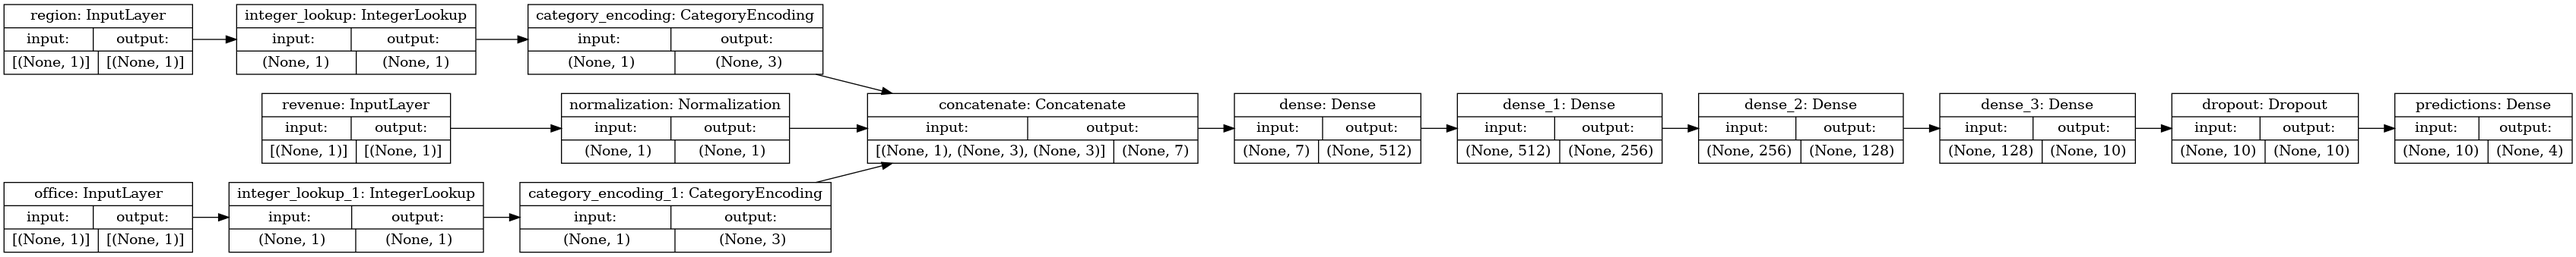
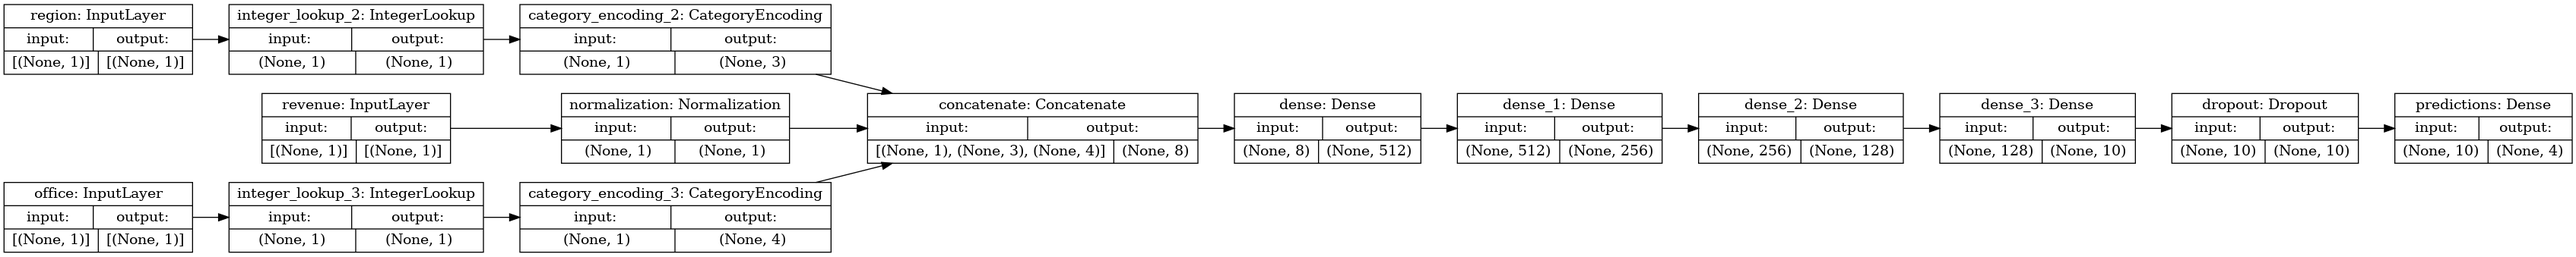
Change labels to lower case

diff --git a/train_preprocessing_layers.py b/train_preprocessing_layers.py
@@ -255,11 +255,11 @@ def get_category_encoding_layer(name, dataset, dtype, max_tokens=None):
 #
 # Vilka ska vi sätta get_categorical_encoding layer, vi har ingen type string i nuvarande dataset
 #
-#type_col = train_features['region']
-#layer = get_category_encoding_layer('region', train_ds, 'int64')
-#layer(type_col)
-#print('*********')
-#print(type_col)
+type_col = train_features['region']
+layer = get_category_encoding_layer('region', train_ds, 'int64', 5)
+layer(type_col)
+print('*********')
+print("Type_col (region): {}".format(type_col))
 
 #
 ############################################################################################################
@@ -268,9 +268,11 @@ but instead use a one-hot encoding of those inputs. Consider raw data that repre
 
 ############################################################################################################
 #
-#type_col = train_features['office']
-#category_encoding_layer = get_category_encoding_layer('office', train_ds, 'int64', 5)
-#category_encoding_layer(type_col)
+type_col = train_features['office']
+category_encoding_layer = get_category_encoding_layer('office', train_ds, 'int64', 6)
+category_encoding_layer(type_col)
+print('*********')
+print("Type_col (office): {}".format(type_col))
 #
 ############################################################################################################
 """## Choose which columns to use
@@ -359,7 +361,7 @@ x = tf.keras.layers.Dropout(0.1)(x)
 output = tf.keras.layers.Dense(4, activation="softmax", name="predictions")(x)
 model = tf.keras.Model(inputs=all_inputs, outputs=output)
 model.compile(optimizer='adam', 
-              loss=tf.keras.losses.SparseCategoricalCrossentropy(from_logits=True),
+              loss=tf.keras.losses.SparseCategoricalCrossentropy(from_logits=False),
               metrics=["accuracy"])
 model.summary()
 # Let's visualize our connectivity graph:
@@ -386,7 +388,7 @@ tensorboard_callback = tf.keras.callbacks.TensorBoard(log_dir="saved_model/logs/
 # libcupti.so.11.0 och inte libcupti.so.11,1 som kommer med tensorflow build.
 # Kan även vara att tensorboard-plugin-profile endast finns i version 2.3.0
 #
-model.fit(train_ds, epochs=25, validation_data=val_ds)
+model.fit(train_ds, epochs=10, validation_data=val_ds)
 model.summary()
 loss, accuracy = model.evaluate(test_ds)
 

diff --git a/tfversion.py b/tfversion.py
@@ -1,12 +1,18 @@
 
-import os
+import os, sys
 os.environ['TF_CPP_MIN_LOG_LEVEL'] = '1' 
 
 import tensorflow as tf
 import tensorflow_estimator as te
-print(tf.__version__)
-print(te.__file__)
+import tensorflow.keras as k
+import pandas as pd
+
+print("Tensorflow version: {}".format(tf.__version__))
+print("Tensorflow estimator file: {}".format(te.__file__))
+print("Tensorflow keras: {}".format(tf.keras.__version__))
 print("Eager execution: {}".format(tf.executing_eagerly()))
+print("Pandas version: {}".format(pd.__version__))
+print("Python version: {}".format(sys.version))
 print("----------")
 print(tf.config.list_physical_devices())
 print("**********")

diff --git a/train_segmentv5.py b/train_segmentv5.py
@@ -87,8 +87,8 @@ with tf.device("/device:gpu:0"):
     ####print(x_dftrain_norm)
     #
     # SEGMENTS = dftrain["Segment"].unique()
-    y_train = dftrain.pop('Segment')
-    y_eval = dfeval.pop('Segment')
+    y_train = dftrain.pop('segment')
+    y_eval = dfeval.pop('segment')
     #print(SEGMENTS)
     print("-- dftrain.head() ------------------------------------------------------")
     print(dftrain.head())

diff --git a/predict_preprocessing_layers.py b/predict_preprocessing_layers.py
@@ -59,7 +59,7 @@ reloaded_model = tf.keras.models.load_model('saved_model/my_segment_classifier')
 predict_x = {
         'region': [10],
         'office': [11],
-        'revenue': [11678000.0],
+        'revenue': [16678000.0],
 }
 predict_x1 = {
         'region': [20],
